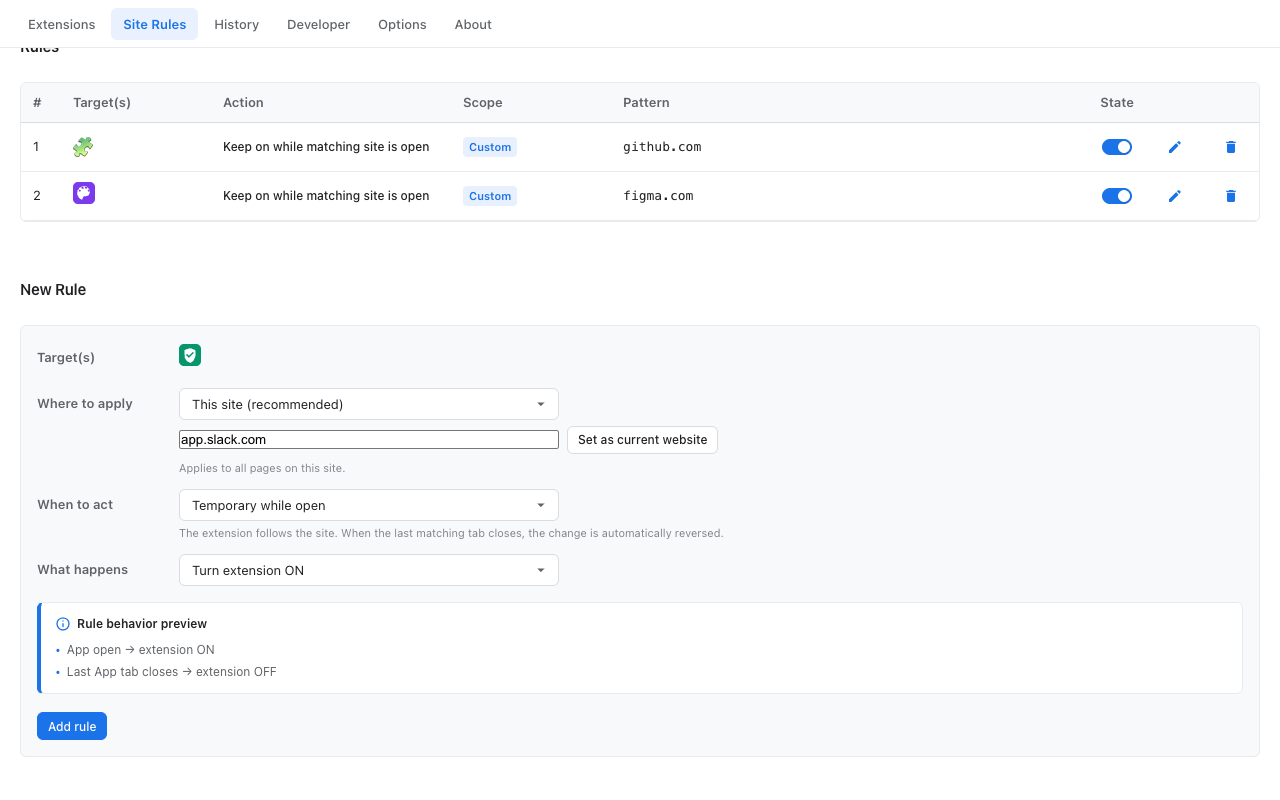
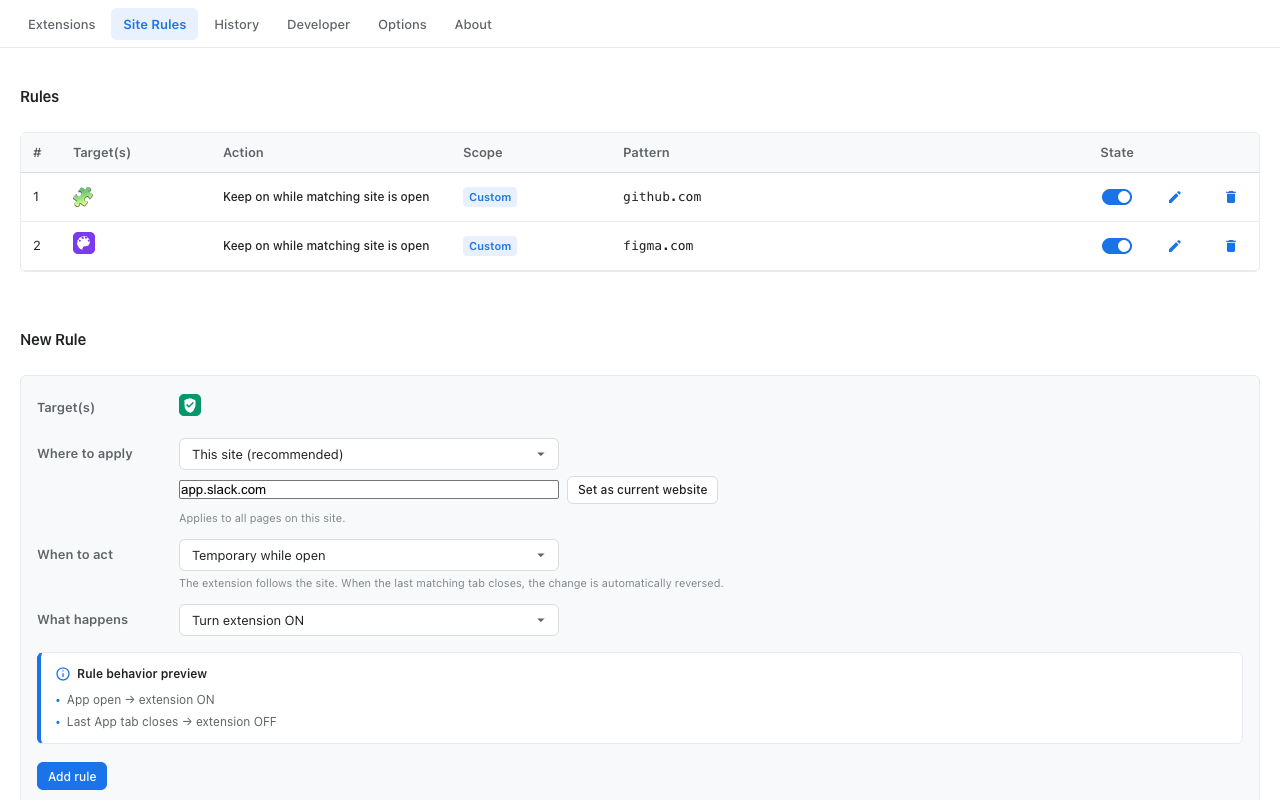
feat(cws): correct Site Rules heading scroll and Welcome default first-run navigation

diff --git a/docs/chrome-web-store/screenshots/README.md b/docs/chrome-web-store/screenshots/README.md
@@ -37,10 +37,10 @@ All images in `cws/` strictly comply with Google's official Chrome Web Store dev
 | # | Filename | Dimensions | Description / Key Elements |
 |---|---|---|---|
 | 1 | `1-manage-groups.png` | 1280 × 800 | **Extensions & Groups**: Catalog action bar (search, sort, view mode), live `5 / 6 running` status badge, group cards (*Daily Essentials*, *Web Development*) with batch toggles, and Big Tile extension cards with developer badges. |
-| 2 | `2-site-rules.png` | 1280 × 800 | **Site Rules**: Configured rules table and a complete, unified New Rule builder with target selection, `app.slack.com` pattern, timing, action, dynamic behavior preview box, and primary `Add rule` action. |
+| 2 | `2-site-rules.png` | 1280 × 800 | **Site Rules**: Fully visible Rules heading, configured rules table, and a complete, unified New Rule builder with target selection, `app.slack.com` pattern, timing, action, dynamic behavior preview box, and primary `Add rule` action. |
 | 3 | `3-history-backup.png` | 1280 × 800 | **History & Backup Split**: 640+640 dual-pane view. Left: chronological management history log. Right: Options page with **Backup & Data** as the dominant visible section (JSON config export, HTML extension list, CSV history export, JSON backup restore). |
 | 4 | `4-developer-workspace.png` | 1280 × 800 | **Developer Workspace**: Neutral fictional projects (*Sample Extension*, *Workspace Utility Demo*), local build controls, GitHub/CWS/ZIP integration chips, and opt-in Google Analytics 4 performance telemetry bar. |
-| 5 | `5-getting-started.png` | 1280 × 800 | **Welcome & Guided Tour Hub**: Clean onboarding surface featuring 4 core capability cards, Developer tools optional card, and both CTAs (*Start quick tour* and *Skip and open Extension Drawer*) fully visible. |
+| 5 | `5-getting-started.png` | 1280 × 800 | **Welcome & Guided Tour Hub**: Authentic default first-run state (Developer tab omitted from top navigation), featuring 4 core capability cards, Developer tools optional card, and both CTAs (*Start quick tour* and *Skip and open Extension Drawer*) fully visible without clipping. |
 
 ---
 
@@ -52,9 +52,9 @@ All images in `cws/` strictly comply with Google's official Chrome Web Store dev
 - [x] **Quantity**: Exactly 5 screenshots (the maximum allowed by CWS).
 - [x] **Full Bleed**: Square image corners, no simulated operating system framing, no fake browser tabs, authentic Extension Drawer UI fills 100% of the frame.
 - [x] **Layout Integrity**:
-  - Screenshot 2 displays the New Rule builder as an unbroken, complete visual unit.
+  - Screenshot 2 displays the Rules heading, configured rules table, and New Rule builder as an unbroken visual unit with zero clipping.
   - Screenshot 3 positions Backup & Data directly beneath the navigator, avoiding unrelated developer toggles.
-  - Screenshot 5 fits all onboarding cards and both call-to-action buttons without viewport clipping.
+  - Screenshot 5 reflects default first-run install state (Developer Workspace disabled) and fits all onboarding cards and both call-to-action buttons without viewport clipping.
 - [x] **Data Privacy & Neutrality**:
   - No personal user data, private tokens, internal file paths, or private emails.
   - Developer Workspace showcases neutral fictional extension identities (`Sample Extension`, `Workspace Utility Demo`).
